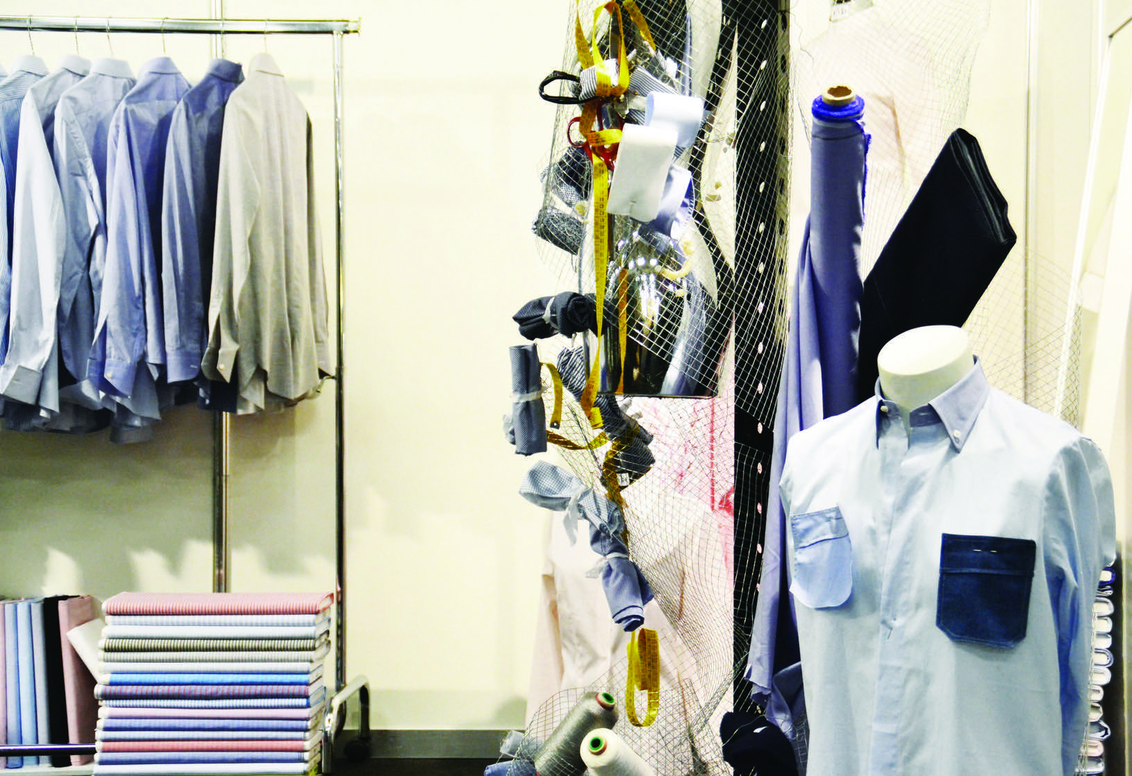
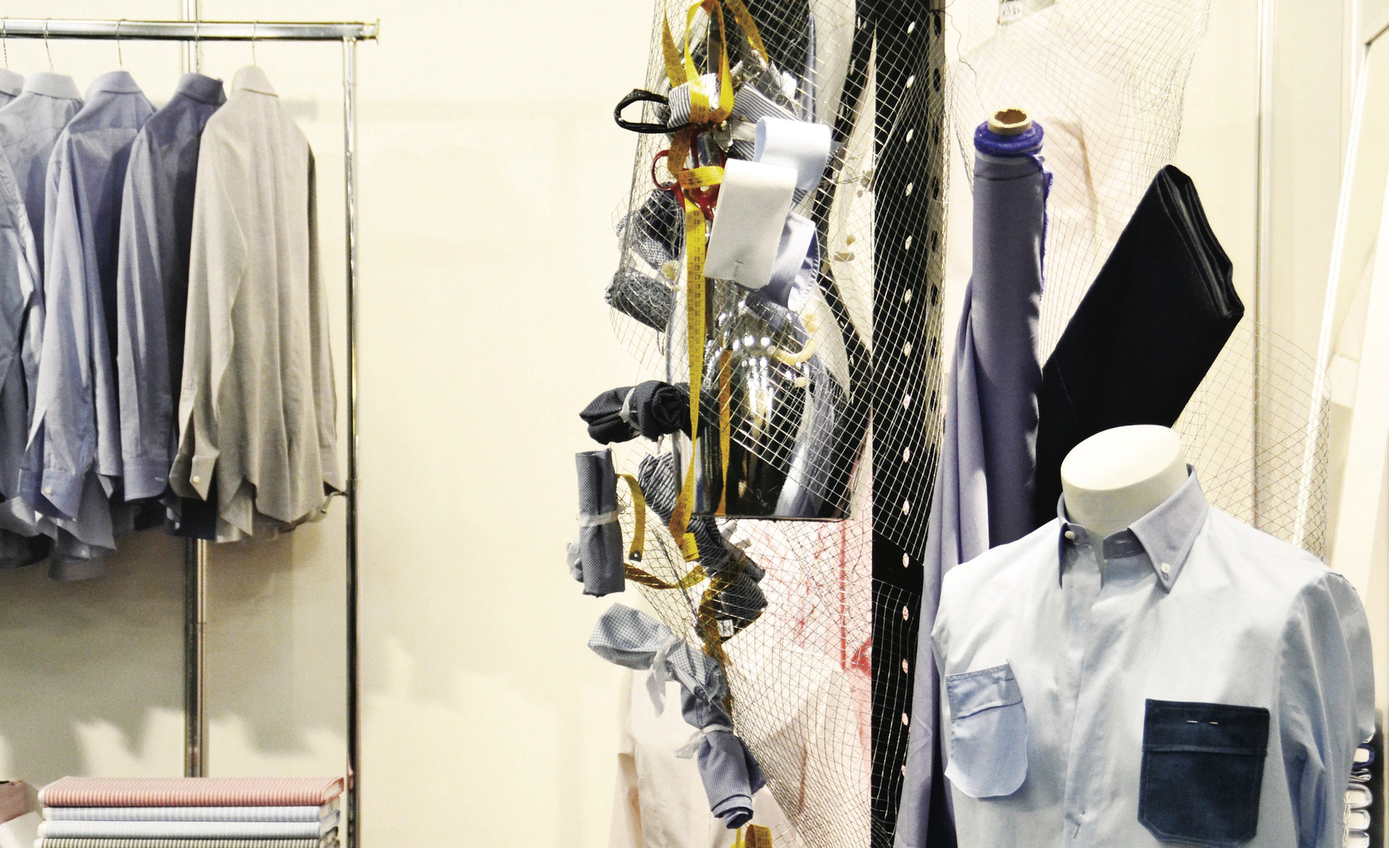
push

diff --git a/installazioni-stand-vetrine-negozi.html b/installazioni-stand-vetrine-negozi.html
@@ -27,7 +27,7 @@
 	<div  id="hideAll"><div id="loader"></div></div>
 	<!--<div id="page"><!--DA IMPLEMENTARE: apparizione pagina in transizione dopo il loader; capire come mai i parallax stanno fuori-->
 		<!--<div class="banner1">-->
-		<div class="banner1" data-parallax="scroll" data-image-src="img/parallax/dipinto-olio-tela-fiori-magnolia-bianchi-parallax-large.jpg" alt="Fiori di magnolia color bianco dipinti olio su tela">
+		<div class="banner1" data-parallax="scroll" data-image-src="img/opere/installazioni/allestimento-stand-camiceria-artigianale-scultura-dettaglio.jpg" alt="">
 			<div class="campitura1 clearfix"></div>
 			<div class="banner-caption clearfix"><span class="caption-text w3-animate-opacity">Installazioni</span></div>
 			<div class="freccia w3-animate-opacity-3"><a href="#anchor-inizio-contenuto"><img src="img/template/scroll-page-trasp.png"></a></div>
@@ -71,27 +71,107 @@
 				<a name="anchor-inizio-contenuto"></a>
 				<div class="paragrafo-testo">
 
-					<h2>Installazioni esposizioni e mostre</h2>
-					<p></p>
-
-					<p>Nel corso della sua carriera artistica Rolando ha arricchito innumerevoli situazioni con le proprie opere, dall'allestimento di vetrine di negozi alla predisposizione di stand fieristici, dall'esposizione delle opere durante fiere e sagre alla presentazione delle realizzazioni in mostre personali dedicate.</p>
-
-					<p>In questa pagina sono riportate alcune delle installazioni realizzate in questi ambiti.</p>
+					<h2>Installazioni</h2>
+					<p>I primi esperimenti di installazioni sono state le vetrine dello storico negozio di Vimercate presso cui ha lavorato per una vita.</p>
+					</p>Dalle vetrine all'allestimento di stand fieristici, Rolando si diverte nel mettere a disposizione la propria arte per arricchire ambienti e situazioni.</p>
 				</div>
 
+				<div class="paragrafo-testo">
+					<h3>Allestimento vetrine</h3>
+					<p>Utilizzando soltanto rami e rametti colorati di bianco, e creando un gioco di corde sospese e catenelle dorate, questo allestimento semplice ma elegante fa risaltare gli accessori in vetrina. </p>
+					<p>[Allestimento vetrina negozio di accessori di lusso. Milano.]</p>
+				</div>
+
+				<div class="due-immagini">
+					<img src="img/opere/installazioni/vetrina-negozio-allestita-accessori-lusso-donna-borse.jpg" alt="" title="" class="prima-immagine" style="width: 66%;"><!--
+					--><img src="img/opere/installazioni/vetrina-negozio-allestita-accessori-lusso-borse-donna.jpg" alt="" title="" class="ultima-immagine" style="width: 33%;">
+				</div>
 				
-				<div class="parallax-inpage" data-parallax="scroll" data-image-src="img/parallax/dipinto-olio-tela-fiori-tulipani-parallax-large.jpg"></div>
-				<div class="segnaposto-parallax"></div>
+			
 
 				
 
 				<div class="paragrafo-testo">
-						<p>Allestimento stand fieristico per camiceria artigianale. Lariofiere Erba (CO). Artigianato in Fiera 2016</p>
-						<p>Mostra personale Decorazioni su Tessuto presso Villa Gussi. Vimercate (MB) 1987</p>
-						<p>Allestimento stand fieristico per azienda internazionale meccanica per la produzione del filo. Fiera Milano 1995.</p>
-						<p>Esposizione opere nell'ambito della Festa della Patata di Oreno. Vimercate (MB) 1991</p>
-						<p>Esposizione opere durante la Festa del Primo Maggio alla "Curt de' Sass". Vimercate (MB) 1993</p>
+					<h3>Allestimento e installazioni presso stand fieristici</h3>
+					<p>Il corpo principale dell'opera (quasi una scultura) è rappresentato da due manichini vestiti con camicie artigianali, una completa e dipinta da Rolando stesso e l'altra soltanto un bozzetto per la prova misure. Intorno ad essi un gioco di reti metalliche fa da supporto a tutti gli strumenti da camiciaio, alle pezze di tessuto di scarto, e quant'altro l'artista abbia trovato in laboratorio.
+					<p>[Allestimento stand fieristico per camiceria artigianale. Lariofiere Erba (CO). Artigianato in Fiera 2016.]</p>
 				</div>
+
+				<div class="tre-immagini">
+					<img src="img/opere/installazioni/allestimento-stand-camiceria-artigianale-scultura-fronte.jpg" class="prima-immagine"><!--
+					--><img src="img/opere/installazioni/allestimento-stand-camiceria-artigianale-scultura-busto.jpg" alt="" title=""><!--
+					--><img src="img/opere/installazioni/allestimento-stand-camiceria-artigianale-scultura-busto.jpg" alt="" title="" class="ultima-immagine">
+				</div>
+				<div class="due-immagini">
+						<img src="img/opere/installazioni/allestimento-stand-camiceria-artigianale-dipinto.jpg" alt="" title="" class="prima-immagine"><!--
+						--><img src="img/opere/installazioni/allestimento-stand-camiceria-artigianale-dettaglio-colletto.jpg" alt="" title="" class="ultima-immagine">
+					</div>
+
+
+				<div class="paragrafo-testo">
+					<p>Utilizzando scampoli di seta e tessuti e sfruttando i supporti e le bobine da filo, Rolando ha vestito alcuni manichini femminili e li ha messi in posa all'interno dello stand.
+					<p>[Allestimento stand fieristico per azienda internazionale meccanica per la produzione del filo. Fiera Milano 1995.]</p>
+				</div>
+
+				<!--CAROUSEL 2 INSTALLAZIONE STARD-->
+				<div class="slideshow2-box">
+				
+				<div class="slideshow2">
+					
+					<div class="prev2-box">
+						<img onclick="plusSlides2(-1)" class="prev2" src="img/template/scroll-page-trasp.png">
+					</div>
+					<div class="slideshow-container2">
+					  <div class="myCarousel2 fade2">
+					    <div class="numbertext2">1 / 5</div>
+					    <img src="img/opere/installazioni/allestimento-stand-azienda-meccanica-tessile-manichino-donna.jpg" alt="" title=" style="width:100%;">
+					    <div class="text2">""</div>
+					  </div>
+
+					  <div class="myCarousel2 fade2">
+					    <div class="numbertext2">2 / 5</div>
+					    <img src="img/opere/installazioni/allestimento-stand-azienda-meccanica-tessile-manichino-femminile-foulard.jpg" alt="" title=" style="width:100%;">
+					    <div class="text2">""</div>
+					  </div>
+
+					  <div class="myCarousel2 fade2">
+					    <div class="numbertext2">3 / 5</div>
+					    <img src="img/opere/installazioni/allestimento-stand-azienda-meccanica-tessile-manichino-femminile-tessuti.jpg" alt="" title=" style="width:100%;">
+					    <div class="text2">""</div>
+					  </div>
+
+					  <div class="myCarousel2 fade2">
+					    <div class="numbertext2">4 / 5</div>
+					    <img src="img/opere/installazioni/allestimento-stand-azienda-meccanica-tessile-manichino-foulard-seta.jpg" alt="" title=" style="width:100%;">
+					    <div class="text2">""</div>
+					  </div>
+
+					  <div class="myCarousel2 fade2">
+					    <div class="numbertext2">5 / 5</div>
+					    <img src="img/opere/installazioni/allestimento-stand-azienda-meccanica-tessile-manichino-tessuti.jpg" alt="" title=" style="width:100%;">
+					    <div class="text2">""</div>
+					  </div>
+
+					</div>
+					<div class="next2-box">
+				  		<img onclick="plusSlides2(1)" class="next2" src="img/template/scroll-page-trasp.png">
+					</div>
+				</div>
+				<br>
+				<div style="text-align:center;">
+				  <span class="dot2" onclick="currentSlide2(1)"></span> 
+				  <span class="dot2" onclick="currentSlide2(2)"></span> 
+				  <span class="dot2" onclick="currentSlide2(3)"></span>
+				  <span class="dot2" onclick="currentSlide2(4)"></span>
+				  <span class="dot2" onclick="currentSlide2(5)"></span>
+				</div>
+
+				</div>
+				<!--CAROUSEL INSTALLAZIONE END-->
+
+
+
+				
 				
 				
 
